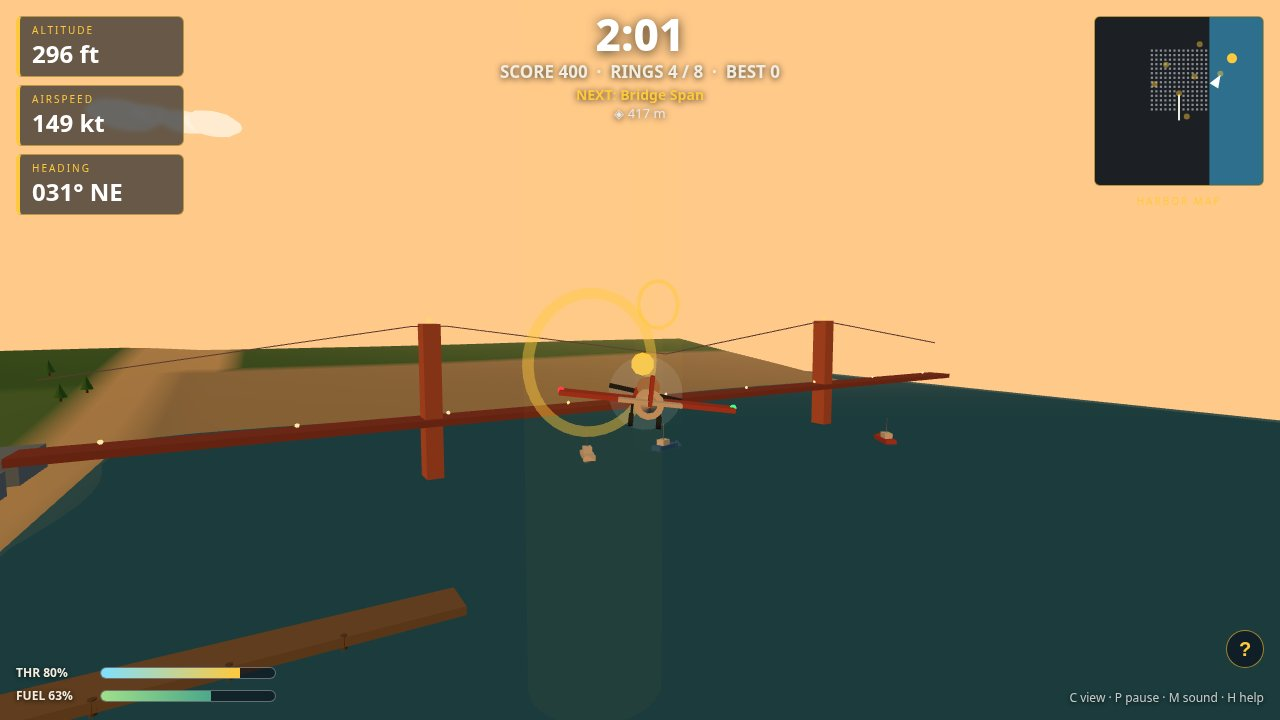
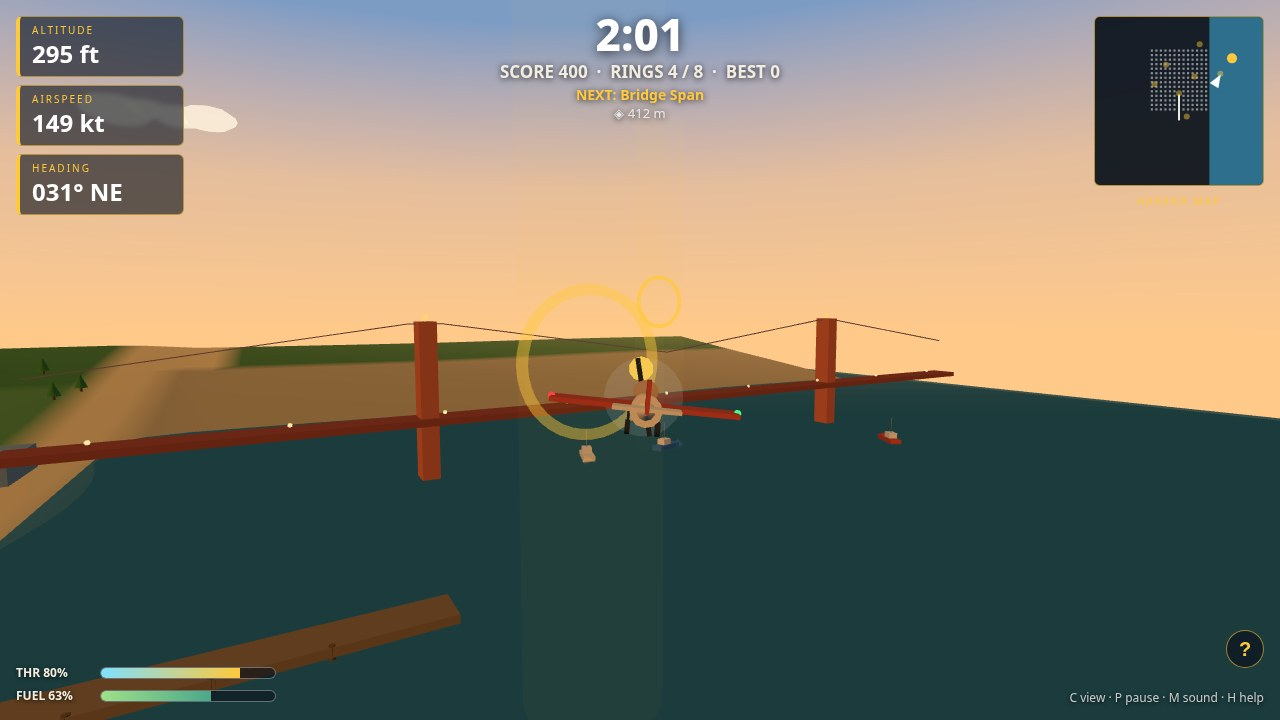
Polish: readable cockpit panel, gradient sky, visible low sun
- Cockpit: instrument panel raised clear of the cowling and tilted
  back, nose cone slimmed and lowered, cockpit eye a touch higher,
  so all four gauge labels read and the nose is a low hump.
- Sky: gradient dome (warm peach at the horizon, deeper blue above)
  in the existing palette, and the low sun disc + halo moved to the
  north-west horizon so it reads in the flight views.
- Re-captured all four screenshots at 1280x720 (sky change touches
  every shot); cockpit framing matches the original.

diff --git a/game/src/world.js b/game/src/world.js
@@ -39,25 +39,52 @@ export class HarborWorld {
     const scene = this.scene;
     scene.background = new THREE.Color(PALETTE.skyHorizon);
     scene.fog = new THREE.Fog(PALETTE.fog, 500, 2600);
-    // Low golden sun disc on the western horizon.
+    // Gradient sky dome: warm peach at the horizon, deeper blue above,
+    // so the sky has depth instead of one flat wash. Vertex colors on a
+    // back-face sphere the camera sits inside; fog off so it never hazes out.
+    const domeGeo = new THREE.SphereGeometry(3800, 32, 16);
+    const domePos = domeGeo.attributes.position;
+    const domeColors = new Float32Array(domePos.count * 3);
+    const skyTop = new THREE.Color(PALETTE.skyTop);
+    const skyHorizon = new THREE.Color(PALETTE.skyHorizon);
+    const tmpColor = new THREE.Color();
+    for (let i = 0; i < domePos.count; i += 1) {
+      const t = Math.min(1, Math.max(0, domePos.getY(i) / 1400));
+      tmpColor.copy(skyHorizon).lerp(skyTop, t * t);
+      domeColors[i * 3] = tmpColor.r;
+      domeColors[i * 3 + 1] = tmpColor.g;
+      domeColors[i * 3 + 2] = tmpColor.b;
+    }
+    domeGeo.setAttribute('color', new THREE.BufferAttribute(domeColors, 3));
+    const dome = new THREE.Mesh(
+      domeGeo,
+      new THREE.MeshBasicMaterial({ vertexColors: true, side: THREE.BackSide, fog: false }),
+    );
+    scene.add(dome);
+    // Low golden sun disc on the north-west horizon: far enough west to
+    // stay golden-hour, far enough north to read in the flight views,
+    // which mostly look north. The old due-west spot never entered a frame.
+    // Set ~37° west of north: clear of the cockpit panel's left edge in
+    // the cockpit shot, and clear of the first ring's arc at any approach
+    // distance instead of sitting behind it.
     const sun = new THREE.Mesh(
-      new THREE.CircleGeometry(90, 32),
+      new THREE.CircleGeometry(110, 32),
       new THREE.MeshBasicMaterial({ color: 0xffdf9e, fog: false }),
     );
-    sun.position.set(-1900, 190, -900);
+    sun.position.set(-1587, 220, -2184);
     sun.lookAt(0, 60, 0);
     scene.add(sun);
     // Warm halo around the sun.
     const halo = new THREE.Mesh(
-      new THREE.CircleGeometry(190, 32),
+      new THREE.CircleGeometry(240, 32),
       new THREE.MeshBasicMaterial({
         color: 0xffc06a,
         transparent: true,
-        opacity: 0.28,
+        opacity: 0.32,
         fog: false,
       }),
     );
-    halo.position.set(-1905, 190, -905);
+    halo.position.set(-1592, 220, -2189);
     halo.lookAt(0, 60, 0);
     scene.add(halo);
   }

diff --git a/game/src/plane.js b/game/src/plane.js
@@ -20,9 +20,11 @@ export function buildPlaneMesh() {
   const fuselage = new THREE.Mesh(new THREE.CylinderGeometry(0.9, 0.55, 5.6, 12), cream);
   fuselage.rotation.x = Math.PI / 2;
   group.add(fuselage);
-  const nose = new THREE.Mesh(new THREE.ConeGeometry(0.9, 1.6, 12), red);
+  // Slimmer, lower nose cone: the old full-height cone filled the
+  // windscreen and hid the middle of the instrument panel.
+  const nose = new THREE.Mesh(new THREE.ConeGeometry(0.72, 1.6, 12), red);
   nose.rotation.x = -Math.PI / 2;
-  nose.position.z = -3.5;
+  nose.position.set(0, -0.28, -3.5);
   group.add(nose);
   const tailCone = new THREE.Mesh(new THREE.ConeGeometry(0.55, 1.6, 10), cream);
   tailCone.rotation.x = Math.PI / 2;
@@ -83,9 +85,11 @@ export function buildPlaneMesh() {
 
   // Lit cockpit panel, visible in cockpit view: gauges drawn on a canvas.
   // Sized to read as a dashboard at the bottom of the view, not a wall.
+  // Raised clear of the cowling: the old low mounting sat inside the
+  // fuselage, so the nose hid the two middle gauges and their labels.
   const panel = makeInstrumentPanel();
-  panel.position.set(0, 0.6, -2.2);
-  panel.rotation.x = -0.35;
+  panel.position.set(0, 1.22, -2.15);
+  panel.rotation.x = -0.5;
   panel.visible = false;
   group.add(panel);
 

diff --git a/game/src/main.js b/game/src/main.js
@@ -259,7 +259,9 @@ class SkylineHarborGame {
       this.plane.canopy.visible = false;
       this.plane.propeller.visible = false;
       // Sit in the seat, looking over the nose at the panel below.
-      const eye = f.position.clone().addScaledVector(forward, 0.2).add(new THREE.Vector3(0, 1.05, 0));
+      // Eye a touch higher than the cowling so the raised panel reads
+      // fully below the windscreen instead of behind the nose.
+      const eye = f.position.clone().addScaledVector(forward, 0.2).add(new THREE.Vector3(0, 1.15, 0));
       this.camera.position.copy(eye);
       const target = f.position.clone().addScaledVector(forward, 40);
       this.camera.lookAt(target);
